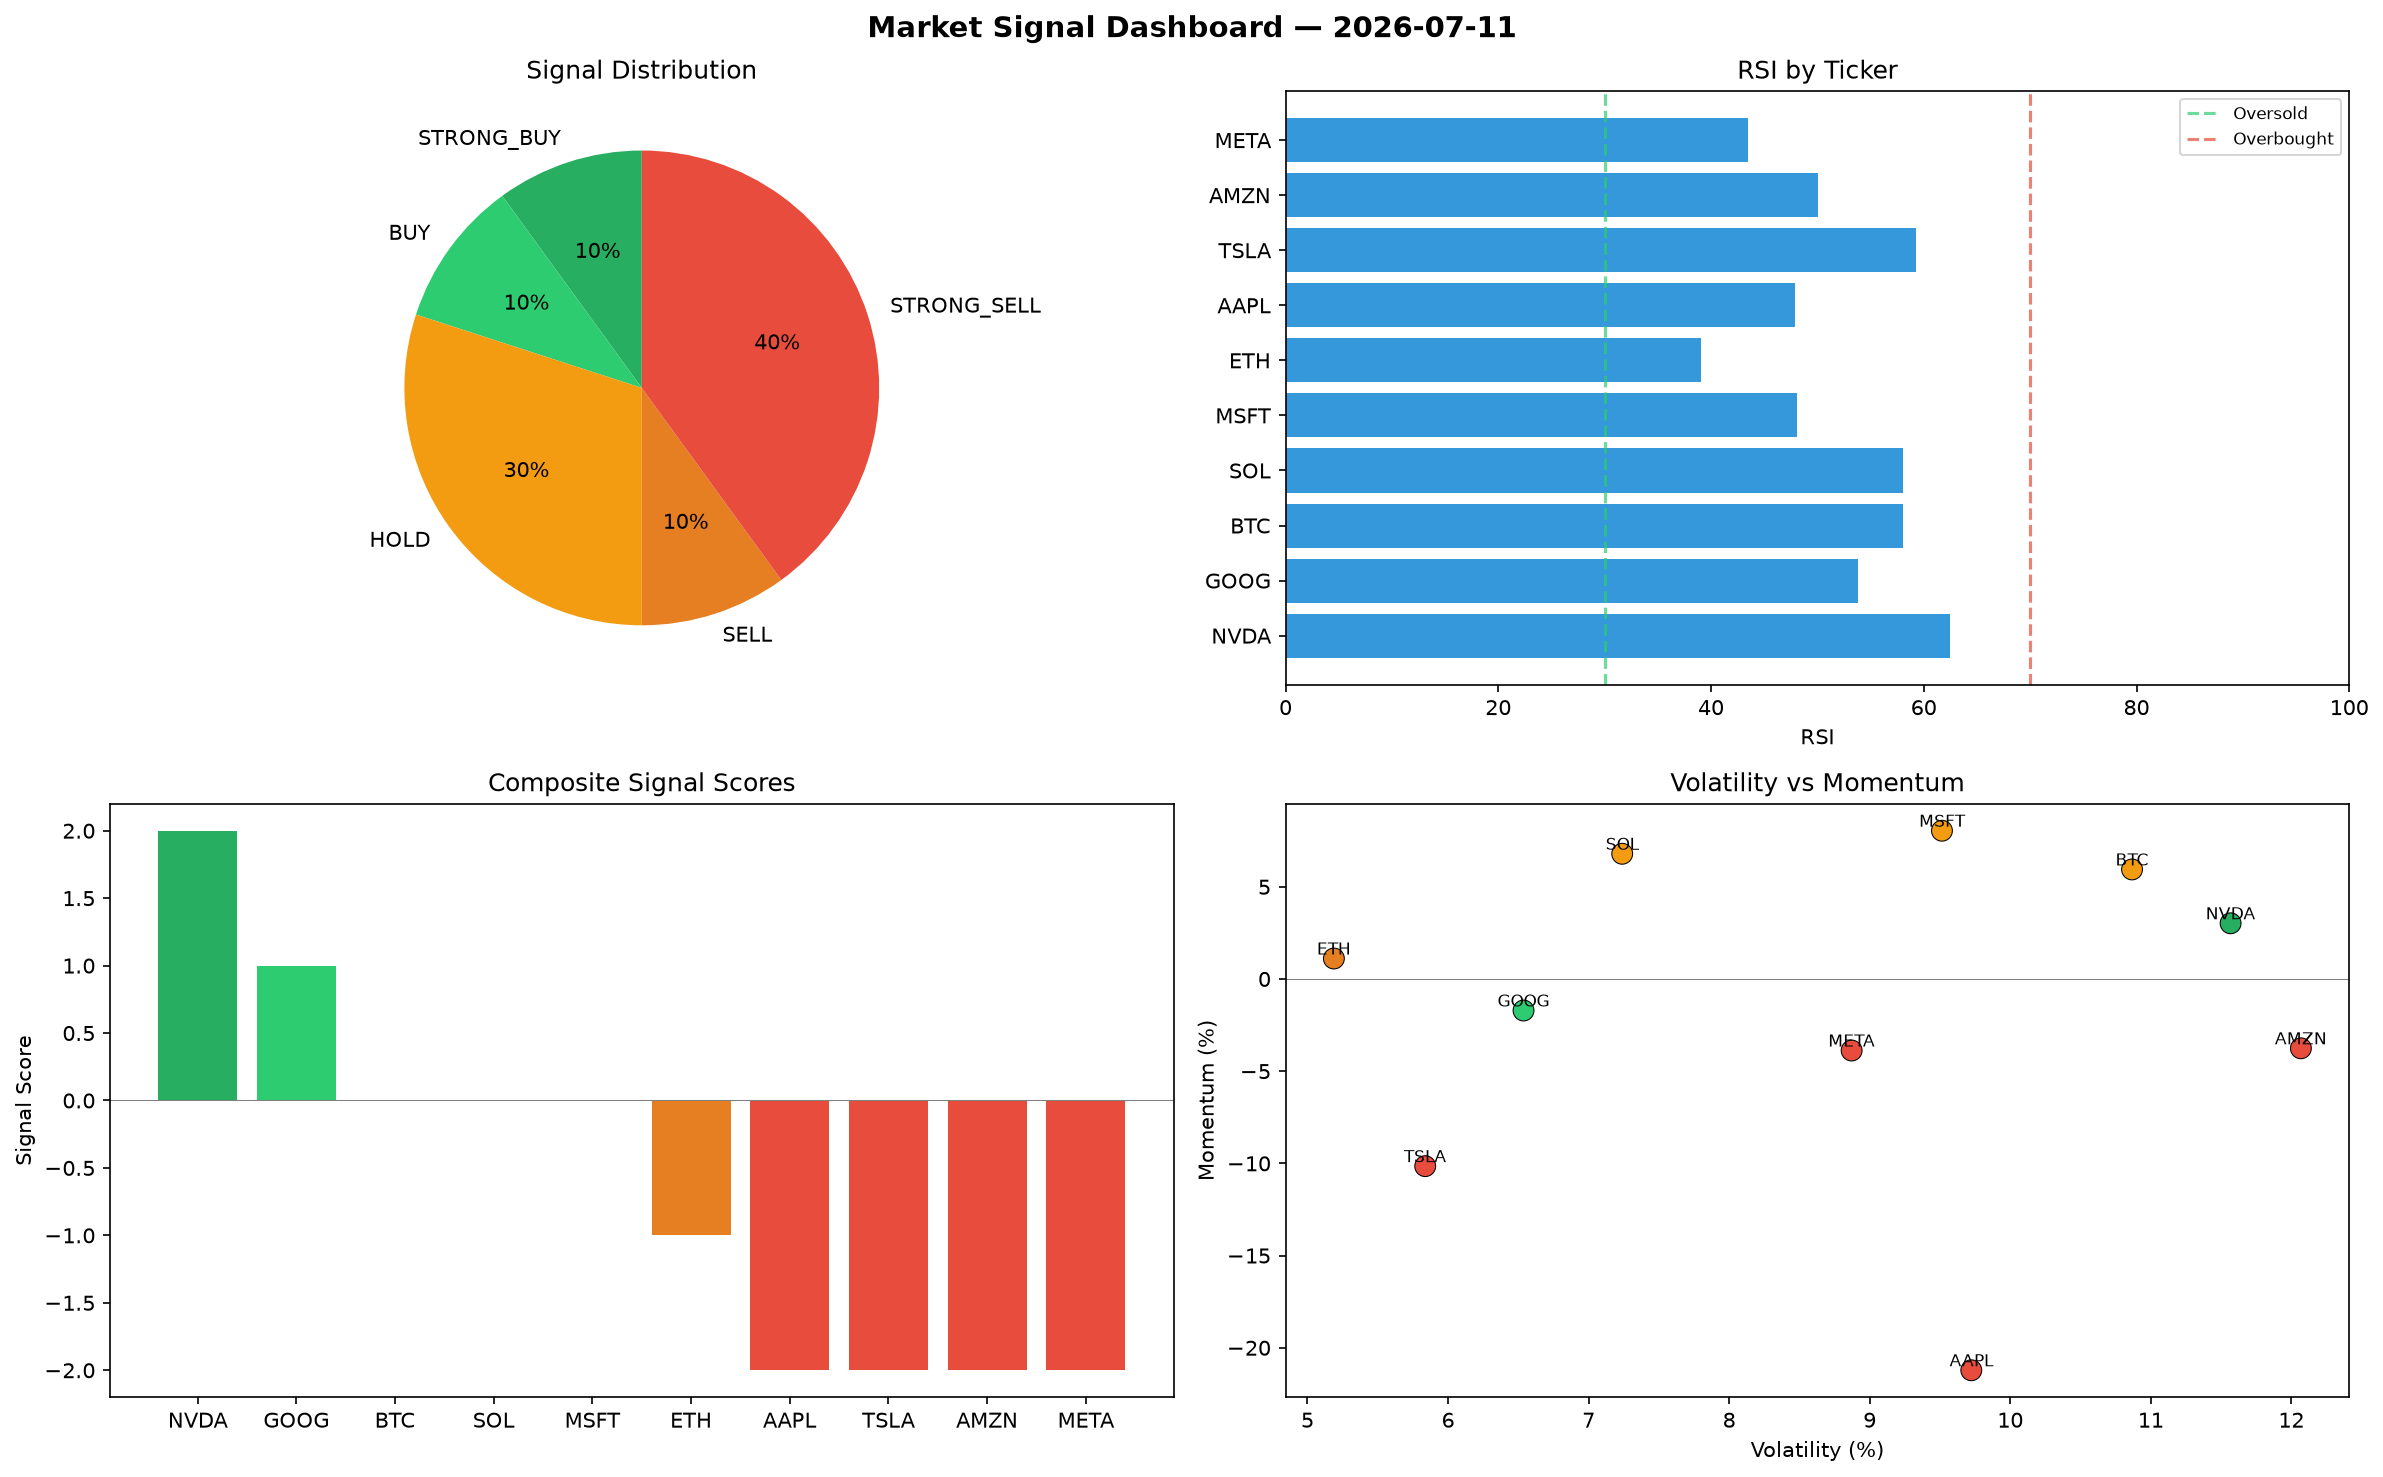
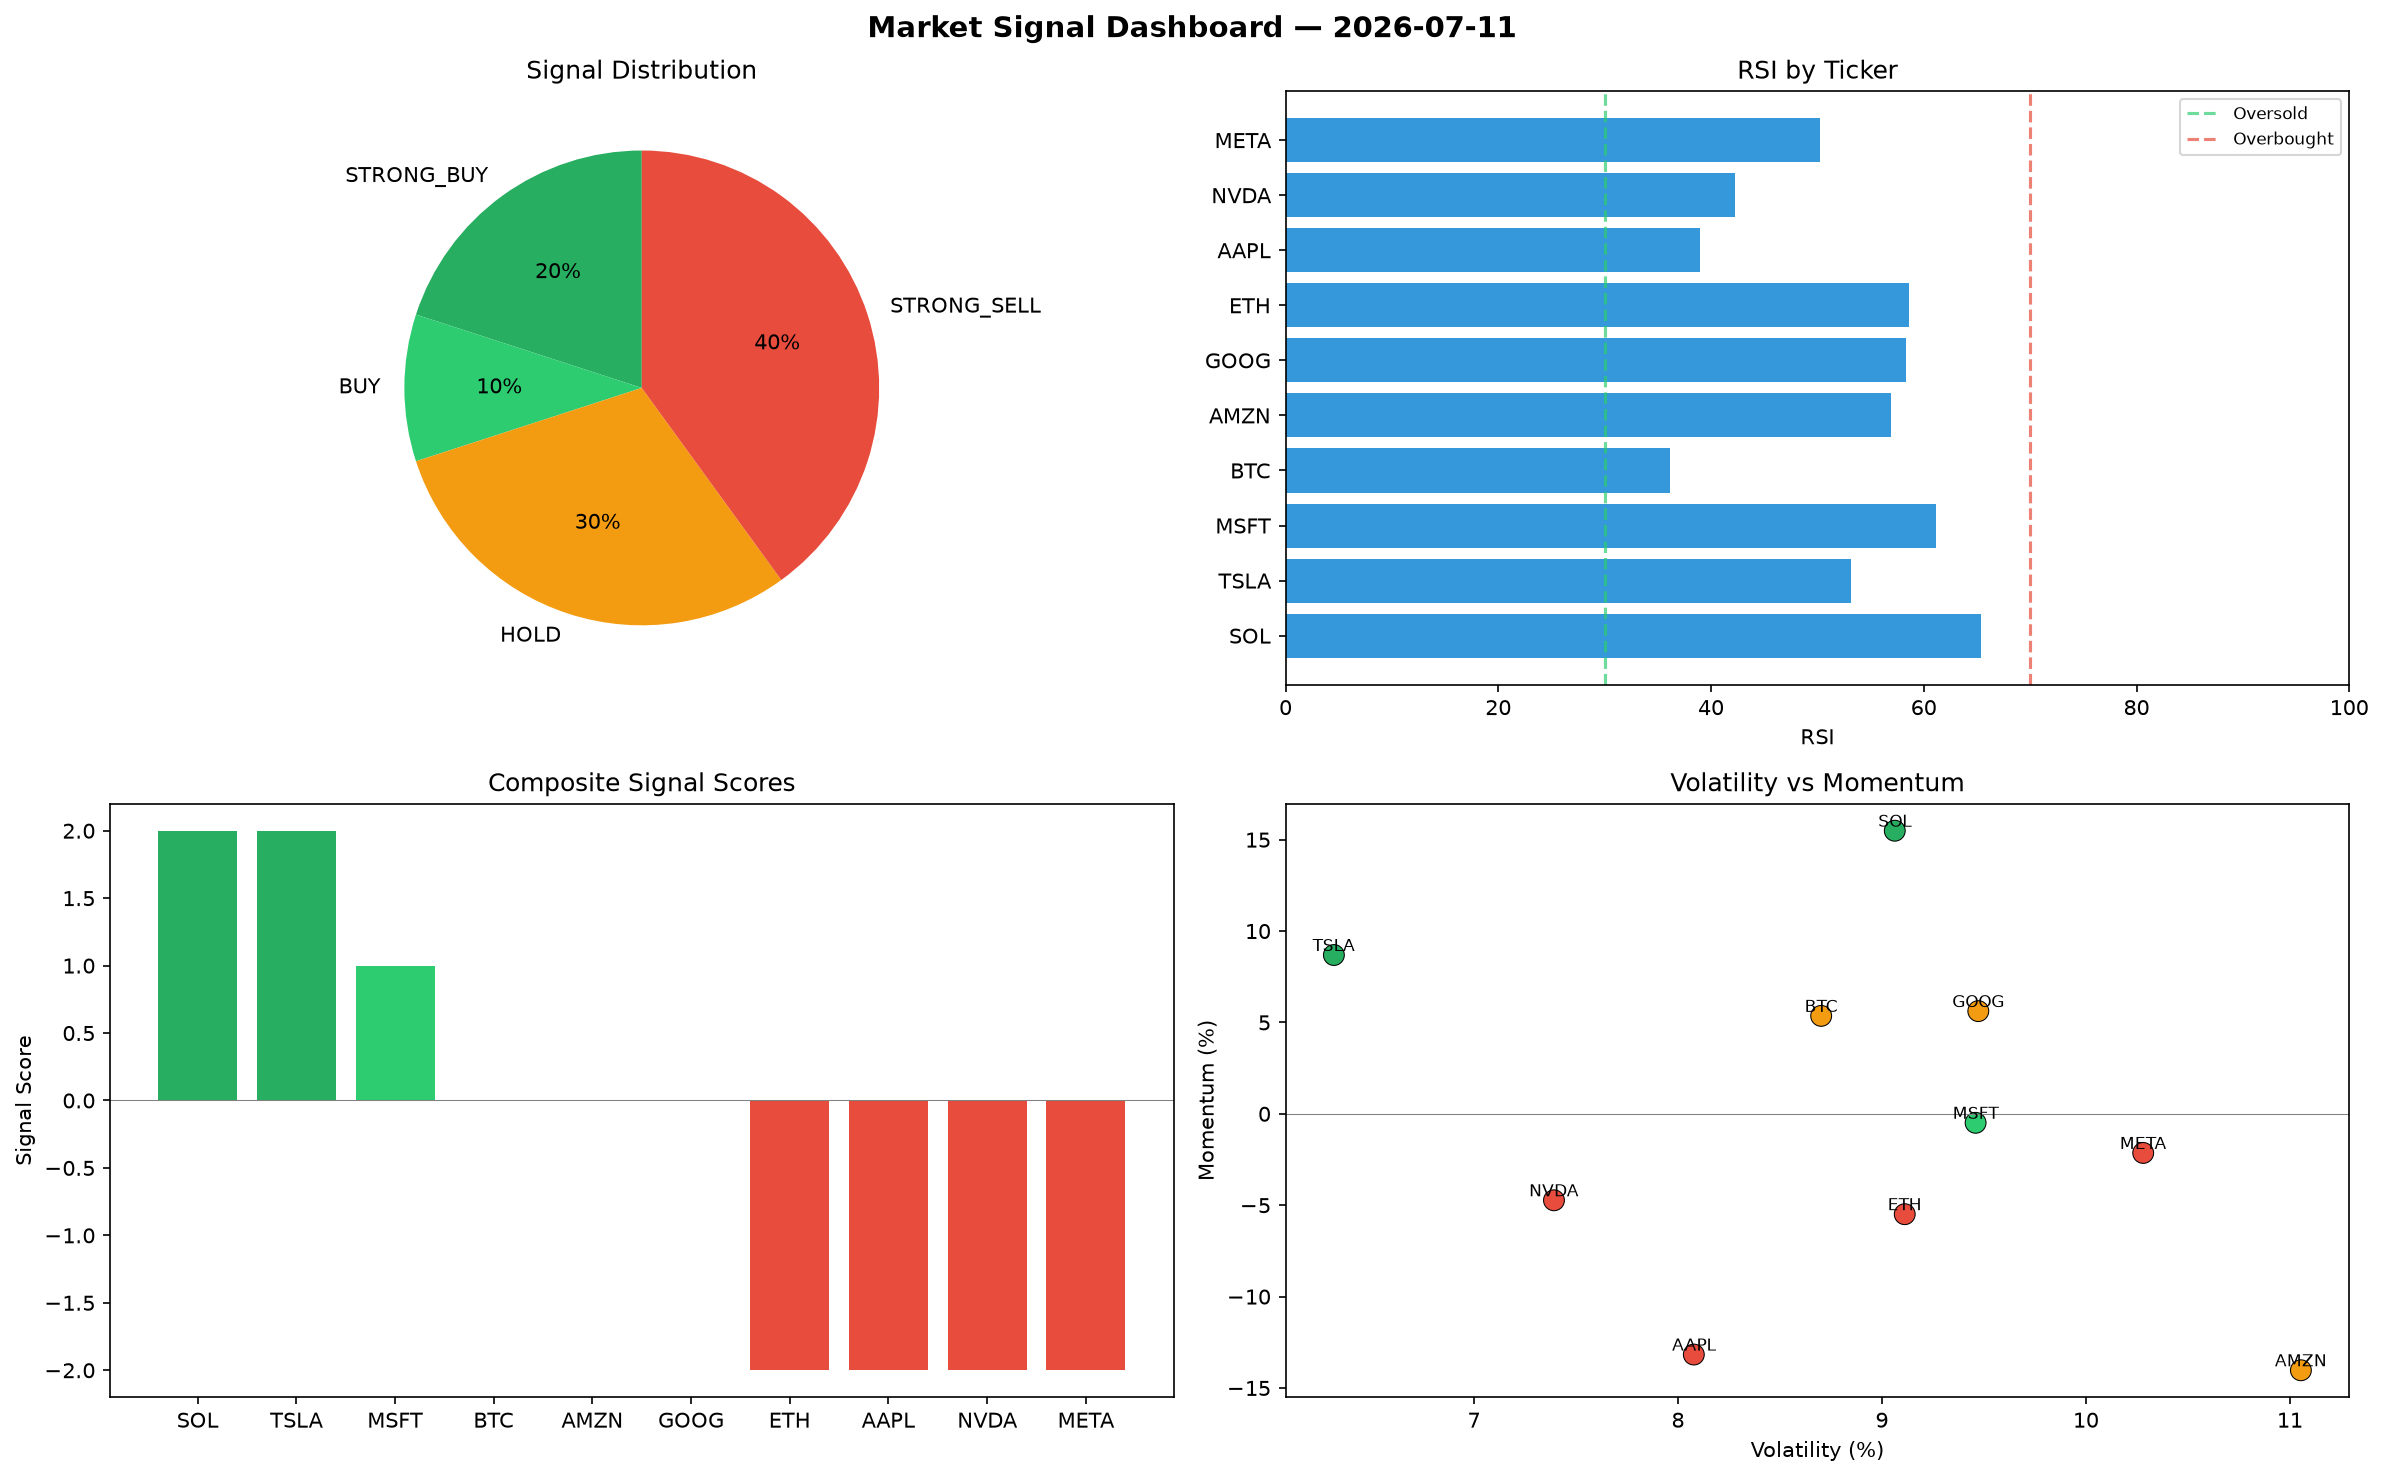
automated-bots: market signals 2026-07-11T21:11

diff --git a/logs/2026-07-11.md b/logs/2026-07-11.md
@@ -1,6 +1,6 @@
 # Market Signal Report — 2026-07-11
 
-**Run ID:** `241600e9b3` | **Buy:** 2 | **Sell:** 5 | **Hold:** 3
+**Run ID:** `3da5498c11` | **Buy:** 3 | **Sell:** 4 | **Hold:** 3
 
 ![Dashboard](2026-07-11_dashboard.png)
 
@@ -8,28 +8,28 @@
 
 | Ticker | Price | Signal | Score | RSI | Momentum | Confidence |
 |--------|-------|--------|-------|-----|----------|------------|
-| NVDA | $347.26 | **STRONG_BUY** | 2 | 62.45 | 0.0302 | 0.5 |
-| GOOG | $1994.57 | **BUY** | 1 | 53.81 | -0.0171 | 0.25 |
-| BTC | $2959.83 | **HOLD** | 0 | 58.04 | 0.0594 | 0.0 |
-| SOL | $1696.63 | **HOLD** | 0 | 58.02 | 0.0679 | 0.0 |
-| MSFT | $2940.98 | **HOLD** | 0 | 48.05 | 0.0804 | 0.0 |
-| ETH | $4739.92 | **SELL** | -1 | 39.08 | 0.0111 | 0.25 |
-| AAPL | $2637.19 | **STRONG_SELL** | -2 | 47.88 | -0.2122 | 0.5 |
-| TSLA | $4402.19 | **STRONG_SELL** | -2 | 59.25 | -0.1015 | 0.5 |
-| AMZN | $4014.73 | **STRONG_SELL** | -2 | 50.03 | -0.0376 | 0.5 |
-| META | $660.45 | **STRONG_SELL** | -2 | 43.49 | -0.0388 | 0.5 |
+| SOL | $4792.8 | **STRONG_BUY** | 2 | 65.42 | 0.1549 | 0.5 |
+| TSLA | $984.48 | **STRONG_BUY** | 2 | 53.15 | 0.0869 | 0.5 |
+| MSFT | $1200.39 | **BUY** | 1 | 61.18 | -0.0049 | 0.25 |
+| BTC | $146.63 | **HOLD** | 0 | 36.15 | 0.0536 | 0.0 |
+| AMZN | $2955.53 | **HOLD** | 0 | 56.88 | -0.1403 | 0.0 |
+| GOOG | $2680.15 | **HOLD** | 0 | 58.3 | 0.0562 | 0.0 |
+| ETH | $1962.26 | **STRONG_SELL** | -2 | 58.59 | -0.0549 | 0.5 |
+| AAPL | $4050.9 | **STRONG_SELL** | -2 | 38.98 | -0.1317 | 0.5 |
+| NVDA | $4207.16 | **STRONG_SELL** | -2 | 42.25 | -0.0473 | 0.5 |
+| META | $1621.22 | **STRONG_SELL** | -2 | 50.23 | -0.0214 | 0.5 |
 
 ## Delta vs Yesterday
 
 | Ticker | Today | Yesterday | Price Change | Signal Changed |
 |--------|-------|-----------|-------------|----------------|
-| NVDA | STRONG_BUY | STRONG_SELL | 📉 -89.63% | ⚠ YES |
-| GOOG | BUY | BUY | 📉 -14.61% | — |
-| BTC | HOLD | STRONG_SELL | 📉 -34.3% | ⚠ YES |
-| SOL | HOLD | STRONG_BUY | 📉 -44.37% | ⚠ YES |
-| MSFT | HOLD | HOLD | 📈 72.42% | — |
-| ETH | SELL | STRONG_BUY | 📈 69.47% | ⚠ YES |
-| AAPL | STRONG_SELL | STRONG_SELL | 📈 335.14% | — |
-| TSLA | STRONG_SELL | HOLD | 📈 44.74% | ⚠ YES |
-| AMZN | STRONG_SELL | HOLD | 📈 373.87% | ⚠ YES |
-| META | STRONG_SELL | HOLD | 📉 -84.54% | ⚠ YES |
+| SOL | STRONG_BUY | STRONG_BUY | 📈 57.14% | — |
+| TSLA | STRONG_BUY | HOLD | 📉 -67.63% | ⚠ YES |
+| MSFT | BUY | HOLD | 📉 -29.62% | ⚠ YES |
+| BTC | HOLD | STRONG_SELL | 📉 -96.75% | ⚠ YES |
+| AMZN | HOLD | HOLD | 📈 248.85% | — |
+| GOOG | HOLD | BUY | 📈 14.74% | ⚠ YES |
+| ETH | STRONG_SELL | STRONG_BUY | 📉 -29.84% | ⚠ YES |
+| AAPL | STRONG_SELL | STRONG_SELL | 📈 568.41% | — |
+| NVDA | STRONG_SELL | STRONG_SELL | 📈 25.59% | — |
+| META | STRONG_SELL | HOLD | 📉 -62.04% | ⚠ YES |
